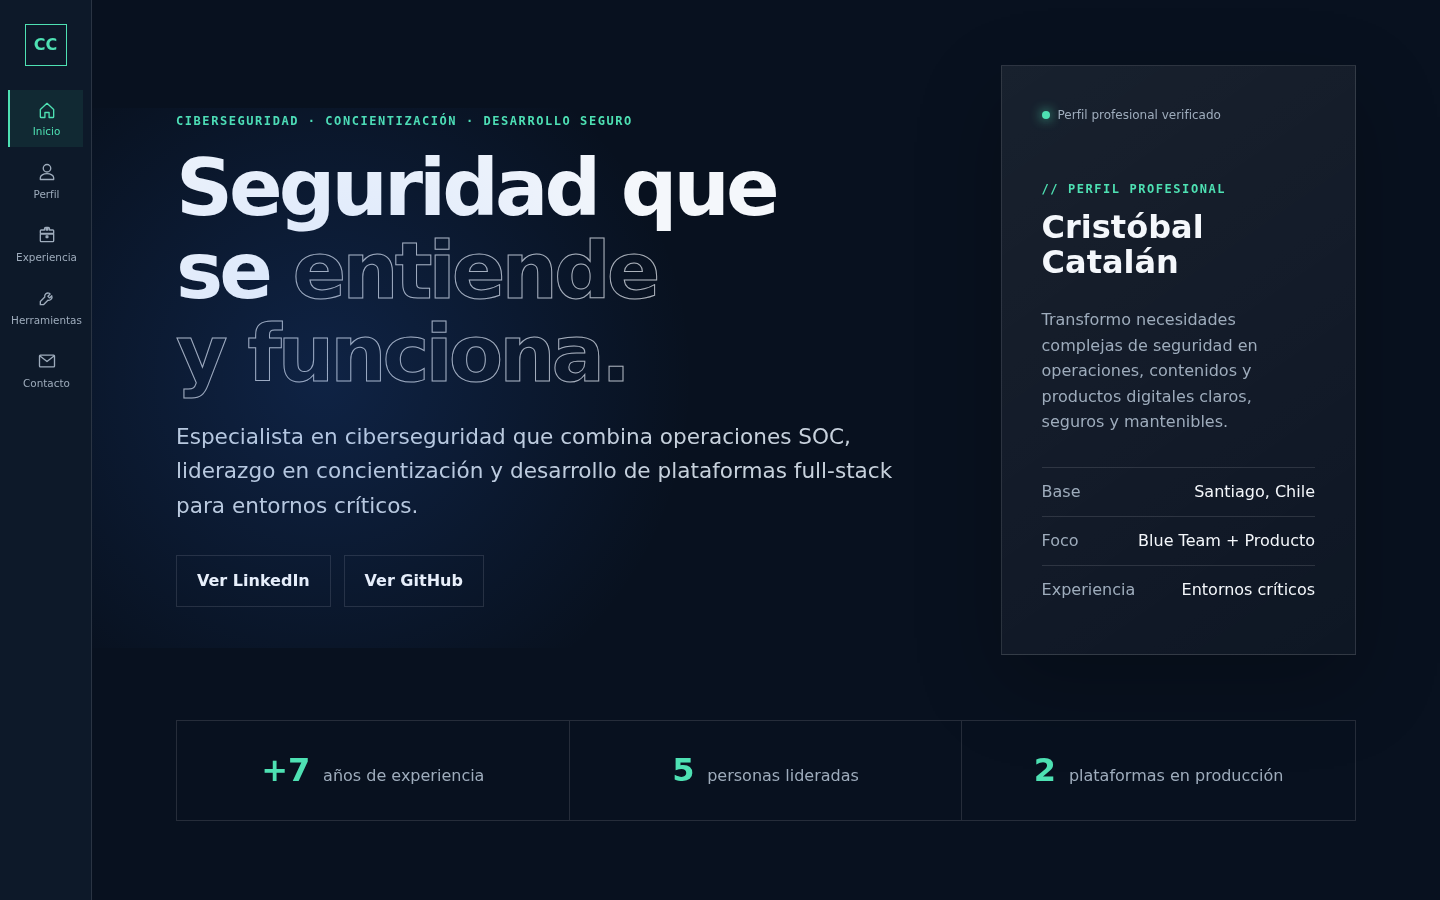
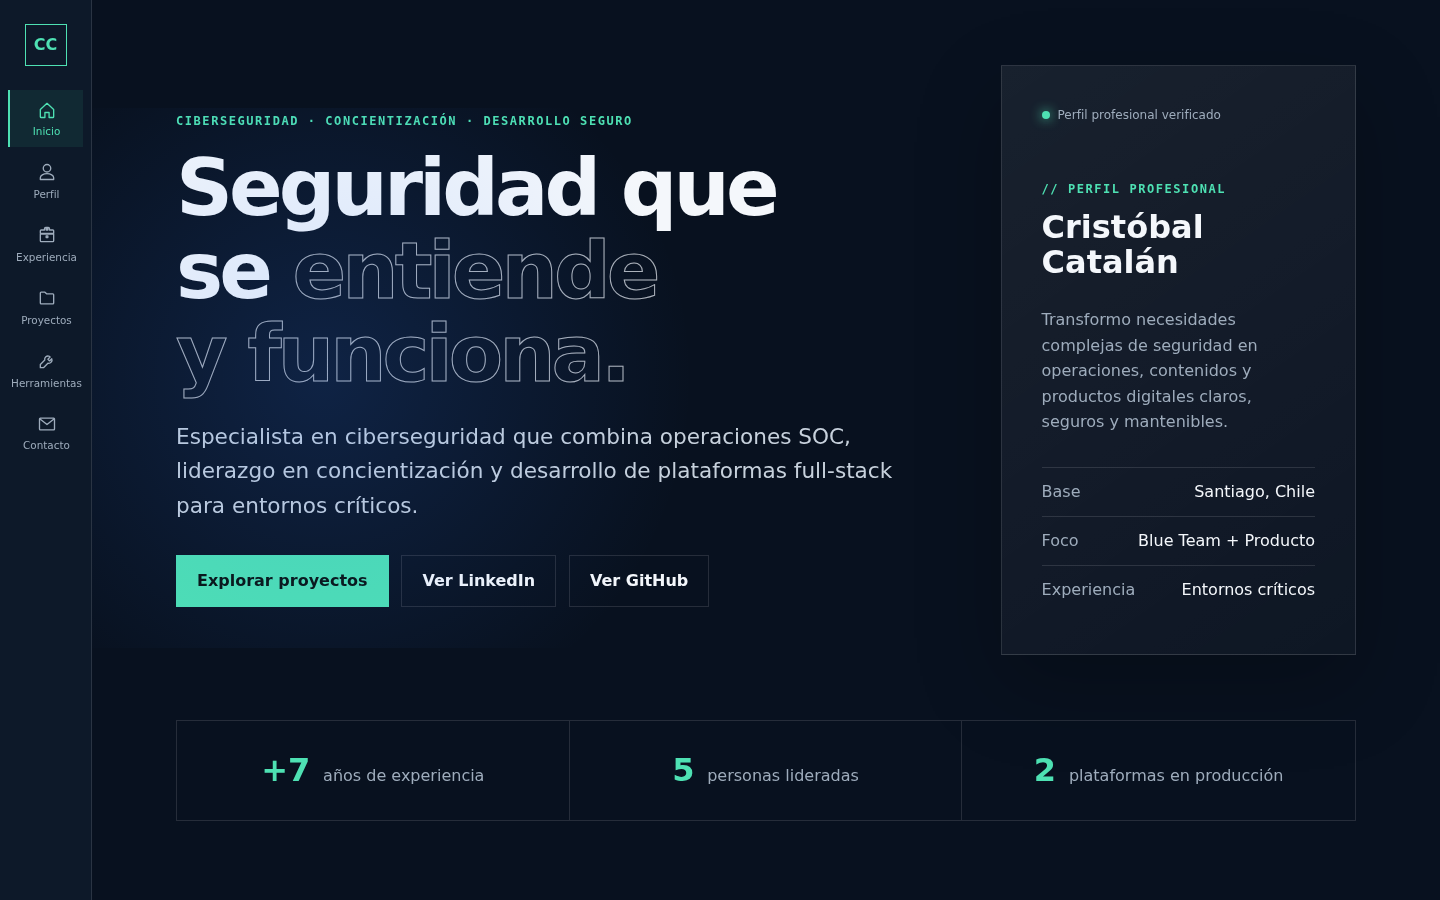
fix: publish personal portfolio case study and harden deploy pipeline
Claude-Session: https://claude.ai/code/session_013ieD1Mgo3DKdEXo6QTmxFy

diff --git a/docs/content-visibility-matrix.md b/docs/content-visibility-matrix.md
@@ -3,24 +3,24 @@
 Estado correspondiente al issue #5. La matriz describe qué puede incluir el build
 normal y qué requiere el modo explícito `CONTENT_PREVIEW=true`.
 
-| Grupo                    | Contenido                                                            | Visibilidad | Validación | OPSEC          | Autorización   | Build normal |
-| ------------------------ | -------------------------------------------------------------------- | ----------- | ---------- | -------------- | -------------- | ------------ |
-| Perfil                   | Identidad, posicionamiento y métricas aprobadas                      | `public`    | `approved` | `not-required` | `not-required` | Sí           |
-| Trayectoria              | Tres responsabilidades profesionales sanitizadas                     | `public`    | `approved` | `not-required` | `not-required` | Sí           |
-| Especialidades           | Cuatro capacidades profesionales                                     | `public`    | `approved` | `not-required` | `not-required` | Sí           |
-| Tecnologías              | Cuatro grupos sin porcentajes                                        | `public`    | `approved` | `not-required` | `not-required` | Sí           |
-| Contacto                 | LinkedIn, GitHub y Credly (sin correo)                               | `public`    | `approved` | `not-required` | `not-required` | Sí           |
-| Casos                    | Este portafolio (concepto aceptado, contenido pendiente de revisión) | `preview`   | `draft`    | `not-required` | `not-required` | No           |
-| Casos                    | Portal CSIRT                                                         | `preview`   | `draft`    | `pending`      | `pending`      | No           |
-| Casos                    | Concentrador de Plataformas                                          | `preview`   | `draft`    | `pending`      | `pending`      | No           |
-| Casos                    | NFCores                                                              | `preview`   | `draft`    | `not-required` | `not-required` | No           |
-| Educación                | Ingeniería en Ciberseguridad                                         | `preview`   | `verified` | `pending`      | `not-required` | No           |
-| Educación                | Diplomado en Gestión de Ciberseguridad                               | `preview`   | `verified` | `pending`      | `not-required` | No           |
-| Educación                | Técnico de Nivel Superior en Telecomunicaciones                      | `preview`   | `verified` | `pending`      | `not-required` | No           |
-| Credencial               | Fortinet Certified Fundamentals (sin URL de insignia individual)     | `preview`   | `verified` | `not-required` | `not-required` | No           |
-| Credencial               | SFPC (sin URL de insignia individual)                                | `preview`   | `verified` | `not-required` | `not-required` | No           |
-| Formación complementaria | Desarrollo Full Stack JavaScript, en curso                           | `preview`   | `verified` | `not-required` | `not-required` | No           |
-| Privado                  | Ninguna entrada activa                                               | `private`   | —          | —              | —              | No           |
+| Grupo                    | Contenido                                                        | Visibilidad | Validación | OPSEC          | Autorización   | Build normal |
+| ------------------------ | ---------------------------------------------------------------- | ----------- | ---------- | -------------- | -------------- | ------------ |
+| Perfil                   | Identidad, posicionamiento y métricas aprobadas                  | `public`    | `approved` | `not-required` | `not-required` | Sí           |
+| Trayectoria              | Tres responsabilidades profesionales sanitizadas                 | `public`    | `approved` | `not-required` | `not-required` | Sí           |
+| Especialidades           | Cuatro capacidades profesionales                                 | `public`    | `approved` | `not-required` | `not-required` | Sí           |
+| Tecnologías              | Cuatro grupos sin porcentajes                                    | `public`    | `approved` | `not-required` | `not-required` | Sí           |
+| Contacto                 | LinkedIn, GitHub y Credly (sin correo)                           | `public`    | `approved` | `not-required` | `not-required` | Sí           |
+| Casos                    | Este portafolio                                                  | `public`    | `approved` | `not-required` | `not-required` | Sí           |
+| Casos                    | Portal CSIRT                                                     | `preview`   | `draft`    | `pending`      | `pending`      | No           |
+| Casos                    | Concentrador de Plataformas                                      | `preview`   | `draft`    | `pending`      | `pending`      | No           |
+| Casos                    | NFCores                                                          | `preview`   | `draft`    | `not-required` | `not-required` | No           |
+| Educación                | Ingeniería en Ciberseguridad                                     | `preview`   | `verified` | `pending`      | `not-required` | No           |
+| Educación                | Diplomado en Gestión de Ciberseguridad                           | `preview`   | `verified` | `pending`      | `not-required` | No           |
+| Educación                | Técnico de Nivel Superior en Telecomunicaciones                  | `preview`   | `verified` | `pending`      | `not-required` | No           |
+| Credencial               | Fortinet Certified Fundamentals (sin URL de insignia individual) | `preview`   | `verified` | `not-required` | `not-required` | No           |
+| Credencial               | SFPC (sin URL de insignia individual)                            | `preview`   | `verified` | `not-required` | `not-required` | No           |
+| Formación complementaria | Desarrollo Full Stack JavaScript, en curso                       | `preview`   | `verified` | `not-required` | `not-required` | No           |
+| Privado                  | Ninguna entrada activa                                           | `private`   | —          | —              | —              | No           |
 
 Todos los grupos estructurados que llegan a la página principal se filtran mediante
 `isVisibleContent`. La sección de proyectos y la sección de formación no se
@@ -58,12 +58,9 @@ marcadores de educación, credenciales y formación complementaria.
   enlaces sociales apuntan únicamente a LinkedIn, GitHub y Credly. Esta parte
   quedó aprobada y no se revirtió.
 - Se agregó un nuevo caso (`portafolio-personal.json`, slug
-  `portafolio-personal`): "Este portafolio". El concepto está aceptado, pero
-  permanece en `preview`/`draft` — no se publica todavía — hasta que el
-  Consejo revise el contenido exacto (resultado, estado y enlaces) y
-  confirme que no exagera el estado actual del sitio. No es un caso
-  institucional. Portal CSIRT, Concentrador de Plataformas y NFCores no se
-  tocaron.
+  `portafolio-personal`): "Este portafolio". No es un caso institucional.
+  Portal CSIRT, Concentrador de Plataformas y NFCores no se tocaron y siguen
+  sin promoverse.
 - **Revertido**: en una primera pasada se habían promovido ambas
   certificaciones (Fortinet Certified Fundamentals y SFPC) a
   `public`/`approved` usando el perfil general de Credly como
@@ -79,6 +76,16 @@ marcadores de educación, credenciales y formación complementaria.
 - `scripts/verify-production-content.mjs` mantiene los nombres de ambas
   certificaciones en `structuredNonPublicMarkers`, ya que siguen sin ser
   contenido público.
-- Como ni "Este portafolio" ni ningún otro caso está en `public`, la sección
-  Proyectos y el elemento "Proyectos" del menú también están ausentes del
-  build de producción actual (`projects.length === 0`).
+
+## Actualización — PR #14, ronda de aprobación de "Este portafolio"
+
+- "Este portafolio" pasó a `public`/`approved` con la redacción de `approach`
+  (esquema y verificador), `outcome` y `notice` provistas por el Consejo, y
+  `verifiedLinks` apuntando al repositorio público. Portal CSIRT,
+  Concentrador de Plataformas, NFCores, educación, Fortinet y SFPC **no** se
+  promovieron.
+- Como consecuencia, la sección Proyectos y el elemento de menú "Proyectos"
+  ahora aparecen en el build de producción (`projects.length === 1`). La
+  sección Credenciales y el elemento "Formación y credenciales" siguen
+  ausentes: ninguna certificación cuenta todavía con URL de insignia
+  individual verificable.

diff --git a/docs/ux/sidebar-navigation.md b/docs/ux/sidebar-navigation.md
@@ -117,37 +117,26 @@ sin extensiones (el binario de Playwright no carga ninguna por defecto):
 - `tablet-768x1024.png` — portada en tablet.
 - `mobile-390x844-cerrado.png` — móvil con el drawer cerrado.
 - `mobile-390x844-abierto.png` — móvil con el drawer abierto.
+- `proyectos.png` — sección Proyectos con la tarjeta "Este portafolio".
+- `caso-portafolio-personal.png` — página completa del caso "Este
+  portafolio" (ahora pública en `/proyectos/portafolio-personal/`).
 
-Como Fortinet, SFPC y "Este portafolio" volvieron a `preview` (ver
+Ahora que "Este portafolio" pasó a `public`/`approved` (ver
 [`docs/content-visibility-matrix.md`](../content-visibility-matrix.md)), el
-build de producción actual **no tiene** sección de Proyectos ni de
-Credenciales, ni los elementos de menú correspondientes; las cuatro capturas
-de arriba lo reflejan fielmente (solo Inicio, Perfil, Experiencia,
-Herramientas y Contacto).
-
-Dos capturas adicionales, generadas con `CONTENT_PREVIEW=true` **solo para
-que el Consejo revise contenido que todavía no se publica**, llevan el
-prefijo `PREVIEW-SOLO-` para que no puedan confundirse con evidencia de
-producción:
-
-- `PREVIEW-SOLO-credenciales.png` — cómo se vería la sección de
-  credenciales si Fortinet/SFPC se aprobaran.
-- `PREVIEW-SOLO-caso-portafolio-personal.png` — la página completa del caso
-  "Este portafolio" pendiente de revisión de contenido.
-
-Ninguna de las dos representa el sitio publicado; ese build con
-`CONTENT_PREVIEW=true` se generó, se capturó y se descartó sin subir nada
-a producción (mismo patrón ya usado para la captura de NFCores en
-`docs/ux/implementation-evidence.md`).
+build de producción **sí tiene** sección de Proyectos y el elemento de menú
+correspondiente; las capturas de arriba lo reflejan. Fortinet, SFPC y el
+resto de casos siguen en `preview`, así que Credenciales y "Formación y
+credenciales" siguen ausentes — no hay capturas `PREVIEW-SOLO-*` en esta
+ronda porque no queda contenido pendiente que capturar solo para revisión.
 
 Comprobaciones automatizadas ejecutadas sobre el build de producción real
 (no son capturas, sino aserciones sobre el DOM y la consola):
 
 - **Consola limpia**: cero mensajes `console.error`, `console.warning`,
   `pageerror` o `requestfailed` en ninguna navegación ni interacción,
-  incluida la navegación directa por hash descrita abajo.
+  incluida la navegación directa por hash y por teclado descritas abajo.
 - **Menú de producción correcto**: los enlaces del menú son exactamente
-  Inicio, Perfil, Experiencia, Herramientas y Contacto (sin Proyectos ni
+  Inicio, Perfil, Experiencia, Proyectos, Herramientas y Contacto (sin
   Formación y credenciales).
 - **Drawer cerrado no tabulable**: `<aside data-sidebar>` recibe el atributo
   `inert` mientras está cerrado en móvil.
@@ -160,21 +149,24 @@ Comprobaciones automatizadas ejecutadas sobre el build de producción real
   botón mueve el foco de vuelta al último enlace.
 - **Escape con retorno de foco**: `Escape` cierra el drawer
   (`aria-expanded=false`) y devuelve el foco al botón hamburguesa.
-- **Foco al seleccionar sección**: al activar el enlace "Perfil" en móvil,
-  el drawer se cierra y el foco queda en `#perfil`.
+- **Navegación por teclado a Proyectos, en móvil**: con el drawer abierto,
+  se recorrió la navegación con `Tab` hasta el enlace "Proyectos" y se
+  activó con `Enter`; el drawer se cerró y el foco quedó en `#proyectos`.
+- **Navegación por teclado a Proyectos, en escritorio**: partiendo del
+  monograma "CC", se recorrió con `Tab` hasta "Proyectos" y se activó con
+  `Enter`; la URL resultante fue `.../#proyectos`.
 - **Navegación directa por hash**: se navegó directamente a `/#inicio`,
-  `/#perfil`, `/#experiencia`, `/#herramientas` y `/#contacto` (las cinco
-  secciones presentes en este build); en los cinco casos la sección
-  correspondiente queda dentro del viewport tras la carga, sin errores de
-  consola. También se confirmó que `#proyectos` y `#credenciales` no
-  existen en el DOM de este build.
+  `/#perfil`, `/#experiencia`, `/#proyectos`, `/#herramientas` y
+  `/#contacto` (las seis secciones presentes en este build); en los seis
+  casos la sección correspondiente queda dentro del viewport tras la carga,
+  sin errores de consola. También se confirmó que `#credenciales` no existe
+  en el DOM de este build.
 
-Los scripts usados (`capture-evidence-prod.mjs` y
-`capture-preview-review.mjs`) no forman parte del repositorio: son
-herramientas de verificación puntual para esta revisión, no artefactos de
-producción. Si se desea repetirlos, requieren Playwright y las bibliotecas
-de Chromium indicadas arriba; ninguna de las dos cosas se agregó como
-dependencia del proyecto.
+El script usado (`capture-evidence-round3.mjs`) no forma parte del
+repositorio: es una herramienta de verificación puntual para esta revisión,
+no un artefacto de producción. Si se desea repetirlo, requiere Playwright y
+las bibliotecas de Chromium indicadas arriba; ninguna de las dos cosas se
+agregó como dependencia del proyecto.
 
 Puntos que siguen requiriendo verificación visual humana antes de aprobar
 esta parte de la PR (las aserciones automatizadas no sustituyen el juicio

diff --git a/docs/security/dependency-review.md b/docs/security/dependency-review.md
@@ -31,9 +31,10 @@ dependencia vulnerable sí estaba instalada en CI y en entornos de desarrollo.
 
 ### Remediación
 
-Se ejecutó `npm audit fix` (sin `--force`) y adicionalmente se fijó
-explícitamente `sharp 0.35.3` mediante `overrides` en `package.json`,
-regenerando el lockfile.
+Se fijó explícitamente `sharp 0.35.3` mediante `overrides` en `package.json`
+y se regeneró el lockfile. No se ejecutó `npm audit fix` en este paso: el
+cambio fue manual y acotado a `sharp`/`libvips`, sin tocar otras
+dependencias.
 
 La remediación debe considerarse válida únicamente cuando se cumpla todo lo
 siguiente:
@@ -86,13 +87,25 @@ pero queda documentado por completitud al revisar el mismo rango de versiones.
 
 ### Remediación
 
-Se ejecutó `npm audit fix` (sin `--force`), que actualizó `astro` a `7.3.2` y
-fijó `sharp` a `0.35.4` mediante `overrides` en `package.json`, regenerando el
-lockfile.
+Esta actualización combinó dos pasos:
+
+1. **Actualización explícita**: se subió `astro` a `7.3.2` y
+   `@astrojs/sitemap` a `3.7.4` en `package.json`, y se fijó `sharp` a
+   `0.35.4` mediante `overrides`.
+2. **`npm audit fix` (sin `--force`)**: ejecutado a continuación sobre el
+   árbol resultante, resolvió además `fast-uri` a `3.1.7` (transitiva de
+   `ajv`, usada por el language server de `@astrojs/check` para YAML) y
+   `svgo` a `4.1.0` (transitiva de `astro`), ambas señaladas por `npm audit`
+   en ese momento. No se usó `--force`, así que no se aplicó ningún cambio
+   con potencial de romper compatibilidad (major bump) sin revisión manual.
+
+Ambos pasos quedaron en el mismo commit (`fix: update Astro dependencies for
+security advisories`), por lo que el lockfile refleja el resultado combinado.
 
 ### Validación posterior
 
 - `npm ls astro` resuelve `7.3.2`; `npm ls sharp` resuelve `0.35.4`.
+- `npm ls fast-uri` resuelve `3.1.7`; `npm ls svgo` resuelve `4.1.0`.
 - `npm audit --omit=dev --audit-level=high` finaliza sin vulnerabilidades.
 - `npm audit --audit-level=high` (incluyendo dependencias de desarrollo)
   finaliza sin vulnerabilidades.
